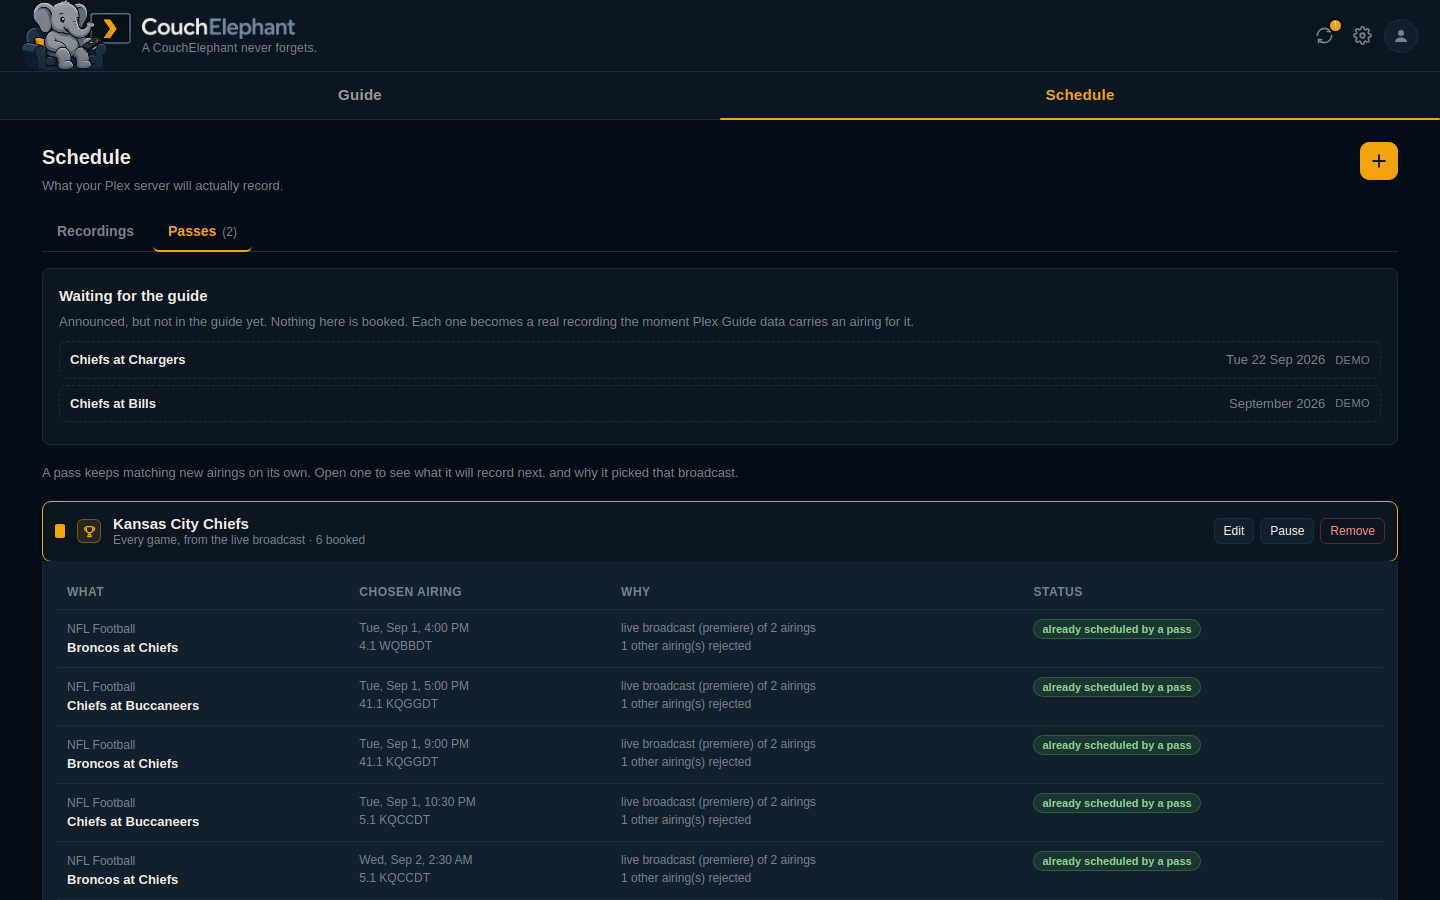
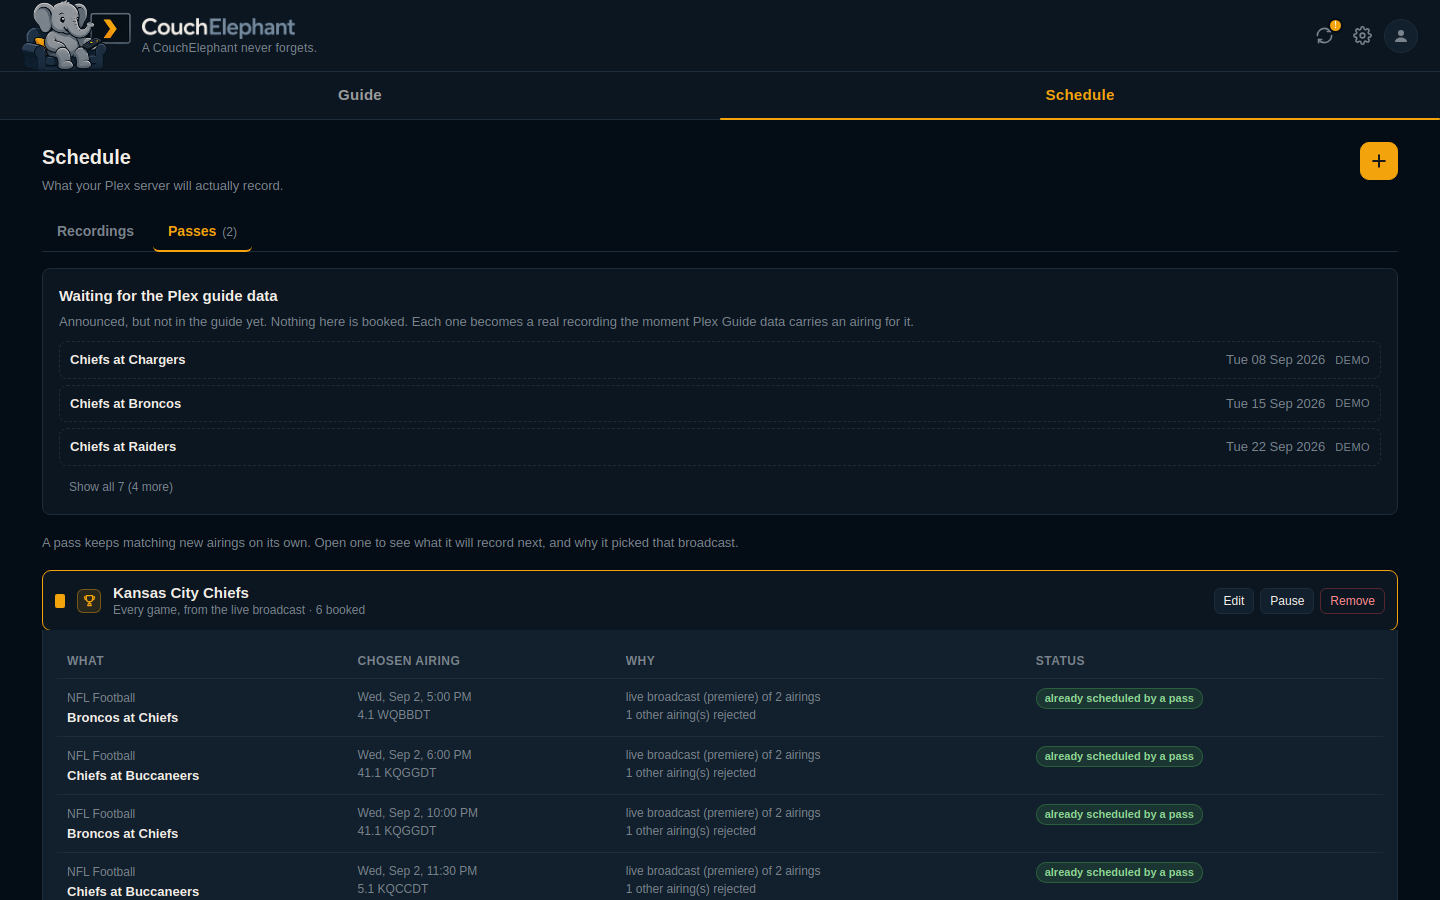
The documentation described an app that no longer existed
Three releases changed the interface and the sources under it, and the docs
were left behind. Everything below is now checked against the shipped build.

THE CLAIM THAT KEPT REAPPEARING. docs/RECORDING.md still told people a
subscriber key was "needed for a season". That was the fifth place carrying the
belief, after the module docstring, the Settings page, a health tip and a test.
It is wrong: eventsround.php returns the whole season on a free key, and the
table now says so.

The ESPN paragraph stays, because rejecting it was right, and it now records
the second reason. It was rejected for pretending not to be a browser, and it
is also unnecessary, since TheSportsDB answers the same question through a
documented endpoint.

SCREENSHOTS. All 18 remade. They still said "Waiting for the guide" from before
the rename, and none of them showed the fold or the new schedule order.

The demo now seeds a SEASON rather than two rows. Two rows photograph a card
that never folds, which would document a behaviour the product does not have.
Seven expectations means the docs image shows what a followed team really
produces: three rows, a "Show all 7" control, four fixtures in their own
calendar cells, and the month-only one in the band under the grid.

README gains the two things a reader would otherwise have to discover: that the
schedule reads outward from now, and that following a team fills the card with
its whole published season without a key.
[…]

diff --git a/scripts/screenshots.py b/scripts/screenshots.py
@@ -94,16 +94,21 @@ def start_app(plex_url):
 
 
 def _seed_expectations():
-    """Two announced games the demo guide has not reached yet.
+    """A season the demo guide has not reached yet.
 
-    Both halves of the feature, because they are drawn in different places on
-    purpose. A dated one goes in its calendar cell; a month-only one goes in the
-    band under the grid, since a cell IS a day and putting a month in one states
-    a broadcast date nobody published.
+    Enough rows that the plan card actually folds, because it does in the
+    product: a followed team fills it with a whole published schedule. Seeding
+    two would photograph a card that never folds and document a behaviour the
+    app does not have.
+
+    Every part of the feature is represented, because they are drawn in
+    different places on purpose. A dated fixture goes in its own calendar cell;
+    the month-only one goes in the band under the grid, since a cell IS a day
+    and putting a month in one states a broadcast date nobody published.
 
     Fixed days rather than offsets from today, so the docs image is the same
-    picture every time it is remade. Both sit ~3 weeks out, which is past where
-    any guide reaches, which is exactly why an expectation exists at all.
+    picture every time it is remade. All of them sit past where any guide
+    reaches, which is exactly why an expectation exists at all.
     """
     import datetime
 
@@ -113,13 +118,36 @@ def _seed_expectations():
         return int(datetime.datetime(now.year, now.month, day, hour, 0,
                                      tzinfo=datetime.UTC).timestamp())
 
+    def next_month(day, hour):
+        year, month = (now.year + 1, 1) if now.month == 12 else (now.year,
+                                                                 now.month + 1)
+        return int(datetime.datetime(year, month, day, hour, 0,
+                                     tzinfo=datetime.UTC).timestamp())
+
     pid = db.one("SELECT id FROM passes WHERE kind = 'team'")["id"]
+    # A SEASON, not two rows. Following a team fills this with its whole
+    # published schedule, and the card folds to the next three because of it.
+    # Two rows would photograph a card that never folds, so the docs would show
+    # a behaviour the product does not have.
+    #
     # Invented call signs, same rule as the rest of the demo guide: Q is the
     # second letter, so nothing here is a real station.
     rows = [
         ("demo-exp-1", "Chiefs at Chargers", "KQAADT",
+         day_of_this_month(8, 19), "day"),
+        ("demo-exp-2", "Chiefs at Broncos", "WQBBDT",
+         day_of_this_month(15, 12), "day"),
+        ("demo-exp-3", "Chiefs at Raiders", "KQCCDT",
          day_of_this_month(22, 20), "day"),
-        ("demo-exp-2", "Chiefs at Bills", "WQBBDT",
+        ("demo-exp-4", "Chiefs at Chargers", "WQDDDT",
+         day_of_this_month(29, 12), "day"),
+        ("demo-exp-5", "Chiefs at Broncos", "KQEEDT",
+         next_month(6, 19), "day"),
+        ("demo-exp-6", "Chiefs at Raiders", "WQFFDT",
+         next_month(13, 12), "day"),
+        # The one nobody has dated to a day. It cannot go in a calendar cell
+        # without inventing a broadcast date, so it proves the band instead.
+        ("demo-exp-7", "Chiefs at Bills", "KQGGDT",
          day_of_this_month(26, 12), "month"),
     ]
     with db.tx() as c:

diff --git a/docs/RECORDING.md b/docs/RECORDING.md
@@ -241,17 +241,26 @@ carries a channel, so only a guide airing can be recorded.
 | Source | Covers | Key |
 | --- | --- | --- |
 | TVmaze | announced series, premiere dates, networks | none, ever |
-| TheSportsDB | a team's published season | **needed for a season.** Without one it answers a single upcoming game per team |
+| TheSportsDB | a team's published season | none. A key raises the rate limit and the depth |
 | TMDB | films and release dates | a free key you register |
 
 TVmaze needs no key and no account, so following a series works the moment the
 container starts. The other two are optional and you are only told about one if
 it would add something to what you already follow.
 
-The ESPN public JSON was tested and rejected. It returns a full season, free
-and keyless, but it answers a plain client and refuses a browser user agent.
-Using it would mean deliberately not looking like a browser, which is someone
-else's bot protection, and it would break one day without warning.
+A team's season needs no key either. The endpoint matters more than the tier:
+`eventsseason.php` is capped, and `eventsround.php` is not. Walked over the
+rounds it returns the whole thing, measured at 272 events across 18 NFL rounds
+holding all 17 games of the team followed. This was got wrong once, in the other
+direction: the capped endpoint was read as "the free tier has no seasons", which
+is why the paragraph below exists at all.
+
+The ESPN public JSON was tested and rejected, twice. It returns a full season
+free and keyless, but it answers a plain client and refuses a browser user
+agent. Using it would mean deliberately not looking like a browser, which is
+someone else's bot protection, and it would break one day without warning. It is
+also unnecessary, since TheSportsDB answers the same question with a documented
+endpoint.
 
 ### Precision, and why it matters
 

diff --git a/README.md b/README.md
@@ -87,6 +87,9 @@ being recorded if it already is.
 What your Plex server will actually record, read from Plex's own grab list. Two
 views over the same data, and every entry says who booked it and why.
 
+It reads outward from now. What is still to come comes first, soonest at the
+top. What already aired follows, most recent first.
+
 | Agenda | Calendar |
 | --- | --- |
 | ![Agenda](docs/images/schedule-agenda.png) | ![Calendar](docs/images/schedule-calendar.png) |
@@ -105,8 +108,15 @@ A pass can follow something the guide has not reached. Those show as plans
 rather than bookings, with the date at exactly the precision the source gave
 it: a kickoff if the league published one, only a month if that is all anyone
 has announced. None of them are booked. Each becomes a real recording the
-moment Plex carries an airing for it, and if the guide runs past the date with
-no match, you are told which one.
+moment Plex's guide data carries an airing for it, and if the guide runs past
+the date with no match, you are told which one.
+
+Follow a team and this fills with its whole published season, seventeen games
+for an NFL side, months before any broadcaster is named. No key is needed. The
+card opens showing the next three and expands on request, and the calendar
+draws all of them: a dated fixture in its own day, and anything known only to a
+month in a band under the grid, because a calendar cell is a day and a month is
+not.
 
 ### Adding a schedule
 
